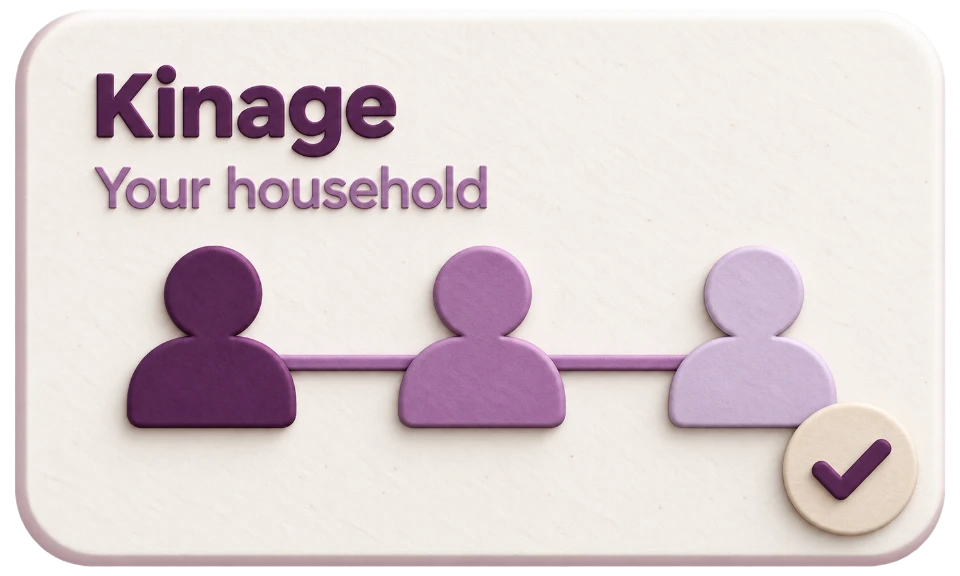
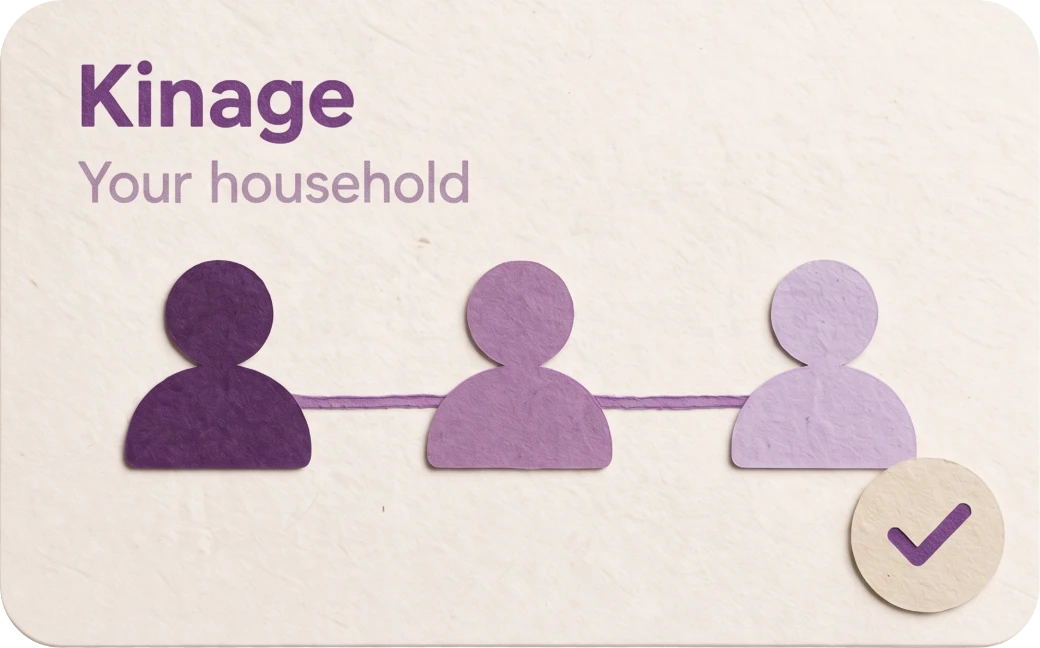
Pricing: new household card with transparent corners and a light shadow
- The supplied card image (JPG with black corners) exported as WebP with
  transparent rounded corners, 345 × 215 at the same visible width and
  centre; a light two-layer drop shadow that follows the card's shape.

diff --git a/src/sections/Pricing.css b/src/sections/Pricing.css
@@ -89,20 +89,22 @@
   gap: var(--space-8);
 }
 
-/* The paper household card (2026-10-01) is cropped to its own edges, so its
-   box is the visible card: 345 × 207 keeps the earlier art's visible width
-   (335px) and its centre (x 987.8 in the 1200 inner). Never cropped. */
+/* The paper household card (2026-10-01, supplied JPG with transparent rounded
+   corners added) fills its box: 345 × 215 keeps the earlier art's visible
+   width and its centre (x 987.8 in the 1200 inner). Never cropped. A light
+   drop shadow follows the card's shape and lifts it off the eggplant band. */
 .pricing__household {
   position: absolute;
   left: 815.3px;
   top: 50%;
   /* Centred with a margin (half its height), not a translate: the entrance
      tween owns this element's transform. */
-  margin-top: -103.5px;
+  margin-top: -107.5px;
   width: 345px;
-  height: 207px;
+  height: 215px;
   max-width: none;
   object-fit: contain;
+  filter: drop-shadow(0 2px 4px rgba(27, 10, 30, 0.18)) drop-shadow(0 10px 22px rgba(27, 10, 30, 0.26));
 }
 
 /* ---- 768–1199: same anchor, scaled to the inner width -------------------- */
@@ -117,7 +119,7 @@
   }
   .pricing__household {
     left: calc(815.3 / 1200 * 100cqw);
-    margin-top: calc(-103.5 / 1200 * 100cqw);
+    margin-top: calc(-107.5 / 1200 * 100cqw);
     width: calc(345 / 1200 * 100cqw);
     height: auto;
   }

diff --git a/src/sections/Pricing.tsx b/src/sections/Pricing.tsx
@@ -13,7 +13,7 @@ import './Pricing.css';
  *
  * Banner in normal flow; copy column on the left (36px heading, 300-weight
  * copy, outlined CTA). The household illustration is absolutely placed in the
- * 1200px inner: the paper card (cropped to its edges) is 345 × 207 with its
+ * 1200px inner: the paper card (transparent rounded corners) is 345 × 215 with its
  * centre at x 987.8, where the earlier art's visible card was. 768–1199px: the same anchor scales with the inner
  * width (container units); under 768px it stacks below the CTA.
  */
@@ -67,7 +67,7 @@ export function Pricing() {
           src={household}
           alt="Kinage household card showing three connected family members with a check mark"
           width={345}
-          height={207}
+          height={215}
           loading="lazy"
         />
       </div>

diff --git a/design-system/asset-map.md b/design-system/asset-map.md
@@ -13,7 +13,7 @@ Originals stay untouched in `D:\Kinage Lending\example`. The project holds deriv
 | `src/assets/3d/benefit-dashboard.webp` | Supplied icon sheet (chat attachment, 2000×667 RGBA), icon 1 of 4 (columns 44–485) → 384² WebP, alpha kept, specks below alpha 16 cleared | What you get | Benefit 1 icon (paper set, 2026-10-01) |
 | `src/assets/3d/benefit-fraud.webp` | Same sheet, icon 3 of 4 (columns 1028–1465) | What you get | Benefit 2 icon (paper set) |
 | `src/assets/3d/benefit-family.webp` | Same sheet, icon 4 of 4 (columns 1522–1956) | What you get | Benefit 3 icon (paper set) |
-| `src/assets/3d/household.webp` | Supplied `Downloads/Karta Kinage – Twoje gospodarstwo domowe.png` (1589×990 RGBA), cropped to the card's alpha bounds + 1.5% → 960×576 WebP, specks cleared | Pricing banner | "Kinage / Your household" card (paper set, 2026-10-01) |
+| `src/assets/3d/household.webp` | Supplied `Downloads/Gemini_Generated_Image_w0ngk1w0ngk1w0ng.jpg` (3468×2164 JPG, black corners) → 1040×648 WebP; the black corners made transparent with an anti-aliased rounded-rect clip (card radius 202px in the source, 60.6px in the export) | Pricing banner | "Kinage / Your household" card; light CSS drop shadow (Pricing.css) |
 | `src/assets/images/ben-terk.webp` | `example/Ben img/Group 67.png` | The story behind Kinage; end of Our Story | Ben + plate composite (plate spans x 48–705 of 765) |
 | `public/media/kinage-explainer.mp4` | Supplied `Comp 1_5.mp4`, byte-for-byte (1920×1080 H.264, 29.97 fps, AAC 48 kHz stereo, 63.46 s; already fast-start) | Up and running in minutes | Explainer video |
 | `public/media/kinage-explainer.en.vtt` | `kinage-product-video/subtitles/kinage-explainer.en.vtt`, unchanged (18 cues, timed to v2; checked against this file: its narration runs 20 ms later at every cue — AAC priming — so the timing holds) | Up and running in minutes | English subtitles, on by default |
